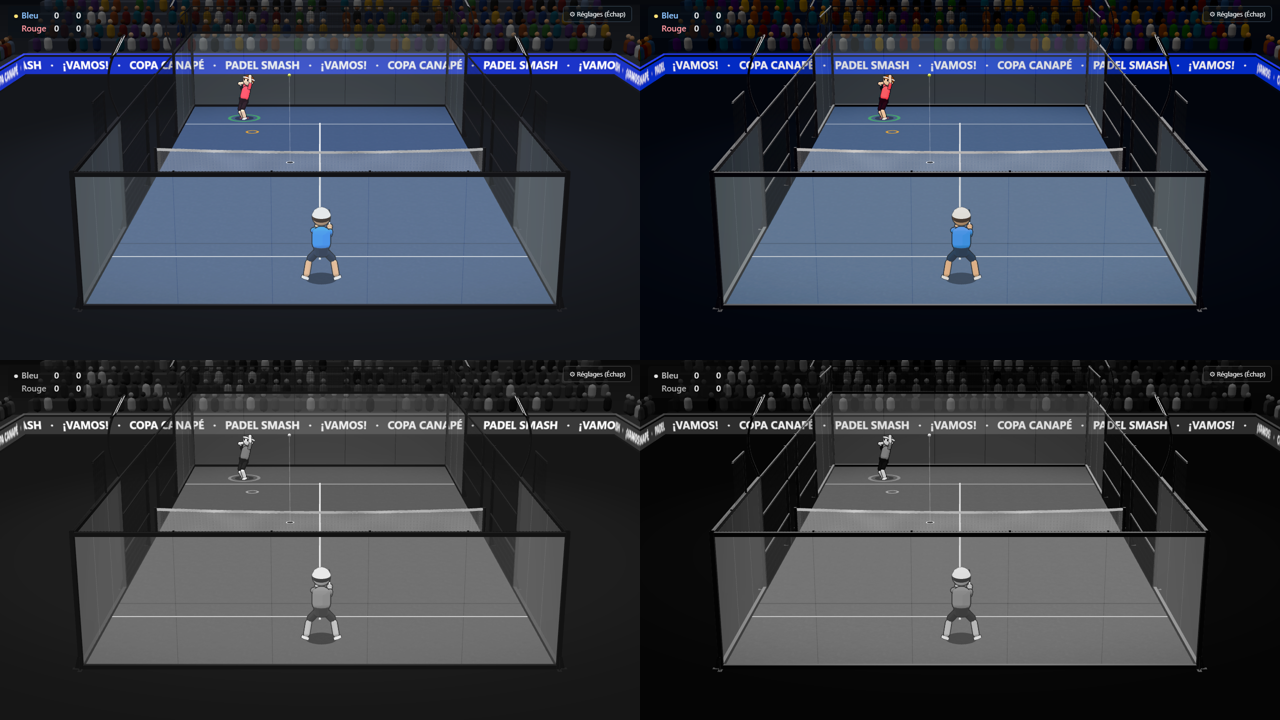
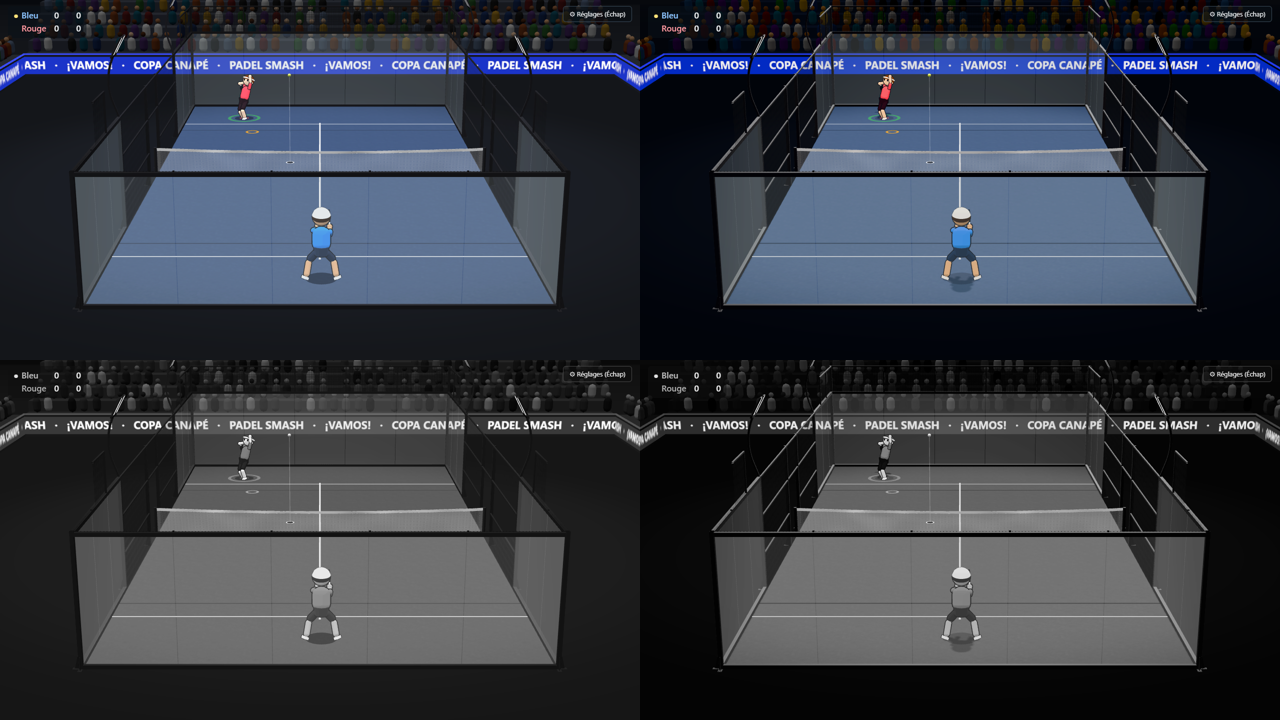
Ombres portées : le projecteur du terrain ancre joueurs, filet et structure au sol
- Étape V2 du plan de polish visuel (research/rendu/POLISH_VISUEL.md).
- Une seule lumière porte les ombres (le projecteur, ou le soleil sans l'arène), carte 2048 serrée sur le
  terrain ; seuls les volumes opaques portent, l'ombre de la balle reste le disque d'aide de jeu.
- Le projecteur prend une part de la lumière du soleil et de l'ambiance pour que les ombres se lisent ;
  le disque sous les pieds devient un léger contact.
- Coupées en ?rendu=simple, en rendu logiciel et par ?ombres=0. Le banc d'essai tourne sur la carte graphique.

diff --git a/src/render/duelScene.ts b/src/render/duelScene.ts
@@ -9,7 +9,7 @@ import { createEffectsView, effectsEnabled } from './effectsView';
 import { arenaEnabled, createArena } from './arena';
 import { stepCrowdReactions } from '../audio/recipes';
 import { CHARACTERS, createCharacter, type CharacterRig } from './character';
-import { applyLook, exactColor, renderLook } from './look';
+import { applyLook, enableShadows, exactColor, renderLook, setShadows } from './look';
 import { loadModel, modelsEnabled } from './models';
 import type { RenderInfo } from '../ui/perfMeter';
 import { bodyYawTarget, computePose, lowFamily, overheadFamily, plansHighShot, STRIDE, swingSide, type SwingFamily } from './pose';
@@ -35,6 +35,11 @@ const SUN_COLOR = 0xfff6ec;
 const SUN_INTENSITY = 1.1;
 const SPOT_COLOR = 0xfff6ea;
 const SPOT_INTENSITY = 3.0;
+
+/** Avec les ombres portées : parts de lumière (facteurs) du projecteur, du soleil et de l'ambiance. [à calibrer] */
+const SHADOW_LIGHT_SHIFT = { spot: 1.35, sun: 0.45, hemi: 0.85 };
+/** Opacité du disque sous les pieds quand les ombres portées sont actives. [à calibrer] */
+const CONTACT_SHADOW_OPACITY = 0.18;
 
 /** Anneau de timing : couleur de la balle à venir (`pressure.ts`). */
 const BALL_COLORS: Record<BallColor, number> = { verte: 0x46d160, jaune: 0xffd23f, rouge: 0xff4436 };
@@ -106,6 +111,8 @@ function clipNearWall(court: THREE.Object3D): void {
 
 interface PlayerView {
   object: THREE.Group;
+  /** Disque sombre sous les pieds ; avec les ombres portées, il ne reste qu'un léger contact. */
+  contactShadow: THREE.MeshBasicMaterial;
   /** Personnage cartoon et son état d'animation, propre au rendu. */
   rig: CharacterRig;
   anim: {
@@ -183,10 +190,8 @@ const WALL_STRIKE = 0.45;
 function createPlayerView(color: number, index: number, height: number): PlayerView {
   const object = new THREE.Group();
   const rig = createCharacter(CHARACTERS[index % CHARACTERS.length]!, color, height);
-  const shadow = new THREE.Mesh(
-    new THREE.CircleGeometry(0.36, 24),
-    exactColor(new THREE.MeshBasicMaterial({ color: 0x000000, transparent: true, opacity: 0.35, depthWrite: false })),
-  );
+  const contactShadow = exactColor(new THREE.MeshBasicMaterial({ color: 0x000000, transparent: true, opacity: 0.35, depthWrite: false }));
+  const shadow = new THREE.Mesh(new THREE.CircleGeometry(0.36, 24), contactShadow);
   shadow.rotation.x = -Math.PI / 2;
   shadow.position.y = 0.006;
 
@@ -204,7 +209,7 @@ function createPlayerView(color: number, index: number, height: number): PlayerV
   standMarker.rotation.x = -Math.PI / 2;
   const bubble = createBubble();
   const anim: PlayerView['anim'] = { yaw: 0, speed: 0, stride: 0, side: 'fore', high: false, highFamily: 'bandeja', volley: false, last: null, turn: 0 };
-  return { object, rig, anim, timingRing, timingMaterial, standMarker, color, bubble, bubbleKind: null };
+  return { object, contactShadow, rig, anim, timingRing, timingMaterial, standMarker, color, bubble, bubbleKind: null };
 }
 
 /** Agrandissement à appliquer à un objet de diamètre `size` à cette position pour le voir à `BALL_MIN_SCREEN`. */
@@ -300,6 +305,8 @@ export function createDuelView(canvas: HTMLCanvasElement, duel: Duel): DuelView 
   scene.background = new THREE.Color(arena ? 0x07090d : 0x1b2733);
   // Le haut des tribunes se perd dans la pénombre ; le terrain (à moins de 42 m de la caméra) n'est pas touché.
   if (arena) scene.fog = new THREE.Fog(0x07090d, 46, 95);
+  /** Lumière qui porte les ombres : le projecteur du terrain, ou le soleil sans l'arène. */
+  let shadowLight: THREE.SpotLight | THREE.DirectionalLight | null = null;
   if (arena) {
     scene.add(arena.object);
     if (import.meta.env.DEV || new URLSearchParams(location.search).has('debug')) window.__arena = arena;
@@ -309,17 +316,28 @@ export function createDuelView(canvas: HTMLCanvasElement, duel: Duel): DuelView 
     spot.position.set(0, 20, 0);
     spot.target.position.set(0, 0, 0);
     scene.add(spot, spot.target);
+    shadowLight = spot;
   }
   // Ciel et sol de l'ambiance : en rendu soigné, côté éclairé chaud et côté ombre froid (ombrage de Gooch, comme
   // Team Fortress 2), au lieu d'ombres grises.
-  scene.add(soigne ? new THREE.HemisphereLight(SKY_COLOR, GROUND_COLOR, HEMI_INTENSITY) : new THREE.HemisphereLight(0xffffff, 0x3a4450, 2.2));
+  const hemisphere = soigne ? new THREE.HemisphereLight(SKY_COLOR, GROUND_COLOR, HEMI_INTENSITY) : new THREE.HemisphereLight(0xffffff, 0x3a4450, 2.2);
+  scene.add(hemisphere);
   const sun = new THREE.DirectionalLight(soigne ? SUN_COLOR : 0xffffff, soigne ? SUN_INTENSITY : 1.2);
   sun.position.set(6, 12, -4);
   scene.add(sun);
+  const shadows = enableShadows(renderer, shadowLight ?? sun, look);
+  // Une ombre n'assombrit que la lumière qui la porte : le projecteur prend une part de celle du soleil et de
+  // l'ambiance, sinon les ombres restent pâles.
+  if (shadows && shadowLight) {
+    shadowLight.intensity = SPOT_INTENSITY * SHADOW_LIGHT_SHIFT.spot;
+    sun.intensity = SUN_INTENSITY * SHADOW_LIGHT_SHIFT.sun;
+    hemisphere.intensity = HEMI_INTENSITY * SHADOW_LIGHT_SHIFT.hemi;
+  }
 
   const court = createCourt();
   scene.add(court.object);
   clipNearWall(court.object);
+  if (shadows) setShadows(court.object, true);
   const ball = createBallView();
   scene.add(ball.object);
   // Effets de balle et de vitre (étape E3), coupés par `?effets=0`.
@@ -332,6 +350,11 @@ export function createDuelView(canvas: HTMLCanvasElement, duel: Duel): DuelView 
     while (players.length < duel.players.length) {
       const i = players.length;
       const view = createPlayerView(i < 2 ? TEAM_COLORS[i]! : PARTNER_COLORS[i - 2]!, i, duel.players[i]!.height);
+      // Ombre portée : le disque sous les pieds s'efface, il ne reste qu'un léger contact.
+      if (shadows) {
+        setShadows(view.rig.object, false);
+        view.contactShadow.opacity = CONTACT_SHADOW_OPACITY;
+      }
       scene.add(view.object, view.standMarker, view.bubble);
       players.push(view);
     }
@@ -369,6 +392,7 @@ export function createDuelView(canvas: HTMLCanvasElement, duel: Duel): DuelView 
       if (courtModel) {
         court.setModel(courtModel, false);
         clipNearWall(court.object);
+        if (shadows) setShadows(court.object, true);
       }
       if (ballModel) ball.setModel(ballModel);
       canvas.dataset.models = courtModel && ballModel ? 'loaded' : 'partial';

diff --git a/src/render/look.ts b/src/render/look.ts
@@ -41,6 +41,56 @@ export function applyLook(renderer: THREE.WebGLRenderer, scene: THREE.Scene, loo
   pmrem.dispose();
 }
 
+/** Taille de la carte d'ombre (texels) : ~1,3 cm par texel sur le cône du projecteur. */
+const SHADOW_MAP_SIZE = 2048;
+/** Flou du bord des ombres (texels) : les projecteurs d'une salle donnent des ombres un peu douces. [à calibrer] */
+const SHADOW_RADIUS = 3;
+
+/**
+ * Ombres portées (étape V2) : une seule lumière les porte (chaque lumière qui porte une ombre redessine la scène),
+ * le projecteur au-dessus du terrain, à la verticale comme dans une vraie salle. Son cône ne couvre que le terrain
+ * (20 × 10 m), ce qui garde la carte d'ombre nette. Rien en `?rendu=simple`, ni en rendu logiciel (trop cher).
+ * Retourne `true` si les ombres sont actives.
+ */
+export function enableShadows(renderer: THREE.WebGLRenderer, light: THREE.SpotLight | THREE.DirectionalLight, look: RenderLook): boolean {
+  if (look === 'simple' || softwareRendering(renderer) || new URLSearchParams(location.search).get('ombres') === '0') return false;
+  renderer.shadowMap.enabled = true;
+  renderer.shadowMap.type = THREE.PCFShadowMap;
+  light.castShadow = true;
+  const shadow = light.shadow;
+  shadow.mapSize.set(SHADOW_MAP_SIZE, SHADOW_MAP_SIZE);
+  shadow.radius = SHADOW_RADIUS;
+  shadow.bias = -0.0004;
+  shadow.normalBias = 0.02;
+  if (light instanceof THREE.SpotLight) {
+    // Du projecteur (20 m) au sol : rien de plus haut que la structure (4 m) ne porte d'ombre.
+    shadow.camera.near = 12;
+    shadow.camera.far = 22;
+  } else {
+    const camera = shadow.camera as THREE.OrthographicCamera;
+    camera.left = camera.bottom = -13;
+    camera.right = camera.top = 13;
+    camera.near = 1;
+    camera.far = 40;
+  }
+  return true;
+}
+
+/**
+ * Qui porte et qui reçoit une ombre, une fois pour toutes à la création (ou au chargement d'un modèle) :
+ * seuls les volumes opaques portent (pas les vitres, le grillage ni la toile du filet, ni les contours des
+ * personnages, dessinés de l'intérieur) ; `receive` pour le terrain.
+ */
+export function setShadows(object: THREE.Object3D, receive: boolean): void {
+  object.traverse((node) => {
+    if (!(node instanceof THREE.Mesh)) return;
+    const material: THREE.Material = Array.isArray(node.material) ? node.material[0] : node.material;
+    const opaque = !material.transparent && material.side !== THREE.BackSide;
+    node.castShadow = opaque && !(material instanceof THREE.MeshBasicMaterial);
+    node.receiveShadow = receive && opaque;
+  });
+}
+
 /** Navigateur sans accélération graphique (pilote absent, liste noire, Chromium des tests sans écran). */
 function softwareRendering(renderer: THREE.WebGLRenderer): boolean {
   const gl = renderer.getContext();

diff --git a/tests/e2e/rendu.spec.ts b/tests/e2e/rendu.spec.ts
@@ -19,8 +19,9 @@ const env = (globalThis as { process?: { env: Record<string, string | undefined>
 const VARIANTS: [string, string][] = env.RENDU_LABEL ? [[env.RENDU_LABEL, env.RENDU_QUERY ? `&${env.RENDU_QUERY}` : '']] : [['simple', '&rendu=simple'], ['soigne', '']];
 const DIR = 'screenshots/rendu';
 /** `RENDU_SCENE=jeu` : une seule scène, pour régler vite. */
-// `RENDU_GPU=1` : Chromium sur la vraie carte graphique (sinon rendu logiciel, temps par image sans valeur).
-if (env.RENDU_GPU) test.use({ launchOptions: { args: ['--use-angle=d3d11', '--enable-gpu', '--ignore-gpu-blocklist'] } });
+// Chromium sur la vraie carte graphique : en rendu logiciel, ombres et reflets sont coupés (`look.ts`) et le temps
+// par image ne vaut rien. `RENDU_LOGICIEL=1` pour voir ce rendu de secours. Sans carte, Chromium y retombe seul.
+if (!env.RENDU_LOGICIEL) test.use({ launchOptions: { args: ['--use-angle=d3d11', '--enable-gpu', '--ignore-gpu-blocklist'] } });
 const SCENES = ALL_SCENES.filter((scene) => !env.RENDU_SCENE || scene.name === env.RENDU_SCENE);
 
 async function frozenScene(page: Page, query: string): Promise<void> {

diff --git a/research/rendu/POLISH_VISUEL.md b/research/rendu/POLISH_VISUEL.md
@@ -199,8 +199,8 @@ manette pour vérifier que la lecture de la balle n'a pas souffert.
   soigné, en couleur et en niveaux de gris, dans `screenshots/rendu/` ; planches `comparaison-*.png`
   (en haut simple | soigné, en bas les mêmes en gris). `jeu-avant*.png` : le rendu d'avant tout changement.
 - Mesure : `window.__perf` en debug, `?perf` l'affiche à l'écran (i/s, ms, appels de dessin, triangles).
-  `RENDU_GPU=1` lance le Chromium des tests sur la vraie carte graphique ; sans, il rend en logiciel et
-  ses temps ne valent que pour comparer entre eux. `RENDU_LABEL`, `RENDU_QUERY`, `RENDU_SCENE` pour régler vite.
+  Le banc lance Chromium sur la vraie carte graphique ; `RENDU_LOGICIEL=1` force le rendu logiciel (sans
+  ombres ni reflets, voir plus bas). `RENDU_LABEL`, `RENDU_QUERY`, `RENDU_SCENE` pour régler vite.
 
 ```bash
 npx playwright test tests/e2e/rendu.spec.ts
@@ -223,6 +223,21 @@ npx playwright test tests/e2e/rendu.spec.ts
 - Le hit-stop existe déjà (40 ms sur frappe parfaite, `modes/duel.ts`) : V7 n'a qu'à le régler.
 
 **V1 validé en jeu par Xavier** (comparé à `?rendu=simple`). Suite : V2 (ombres portées), puis V3 (matière du sol).
+
+**V2 — ombres portées** (18/10/2026, non commité ; `enableShadows` / `setShadows` dans `look.ts`) :
+- Le projecteur du terrain porte les ombres (le soleil sans l'arène) ; carte 2048, cône limité au terrain,
+  `PCFShadowMap` avec un rayon de 3 (`PCFSoftShadowMap` n'existe plus dans three 0.186).
+- Portent : volumes opaques (joueurs sans leur contour, raquettes, poteaux, bande du filet, structure).
+  Ne portent pas : vitres, grillage, toile du filet, balle (son disque reste l'aide de jeu).
+- Une ombre n'assombrit que la lumière qui la porte : avec les ombres, le projecteur passe à ×1,35, le soleil
+  à ×0,45 et l'ambiance à ×0,85, sinon elles restaient pâles. Le disque sous les pieds descend à 0,18.
+- Coupées en `?rendu=simple`, en rendu logiciel et par `?ombres=0`.
+- Coût : RTX 4070, 60 i/s tenus ; +48 appels de dessin (passe d'ombre) en simple, +95 en double. Pas mesuré
+  sur une petite carte graphique.
+- Constat : net en double et de près (`comparaison-v2-*.png` : V1 à gauche, V2 à droite) ; discret dans la
+  vue de jeu, parce que le projecteur est presque vertical et que l'ombre tombe sous le joueur.
+
+**V2 validé en jeu par Xavier** (comparé à `?ombres=0`). Suite : V3 (matière du sol).
 
 ## 5. Risques
 

diff --git a/STATUS.md b/STATUS.md
@@ -867,3 +867,9 @@ Plan et analyse : `research/rendu/POLISH_VISUEL.md`. Fait : banc d'essai du rend
 Neutral, lumières recalibrées, reflets d'environnement, repères de jeu à couleur exacte) ; `?rendu=simple`
 garde l'ancien. Typecheck OK ; tests unitaires OK (2 dépassements de délai sous charge, verts relancés seuls) ;
 e2e 29/30 en un seul worker (le 30e : fichier de capture verrouillé par Windows). **Validé par Xavier en jeu (comparaison avec `?rendu=simple`).**
+
+## Polish visuel V2 : ombres portées (18/10/2026, non commité)
+
+Le projecteur du terrain porte les ombres des joueurs, raquettes, poteaux et du filet (`?ombres=0` pour les
+couper ; absentes en `?rendu=simple` et en rendu logiciel). 60 i/s sur RTX 4070. Typecheck OK, 537 tests unitaires
+OK, e2e 29/30 en un seul worker (le 30e : capture PNG verrouillée par Windows). **Validé par Xavier en jeu.**
